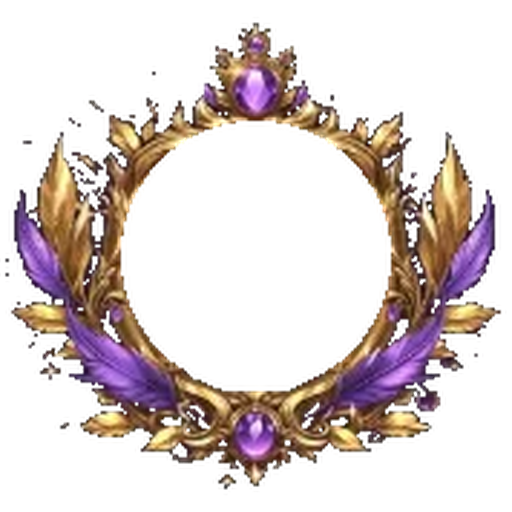
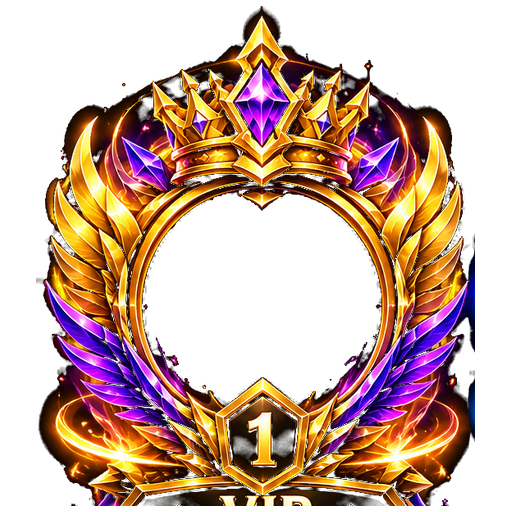
Add files via upload

diff --git a/FFX.html b/FFX.html
@@ -996,6 +996,7 @@ html,body,.pk,.po,.btn,.pay,.q,.card,.nav a,.pv-back{touch-action:manipulation}
     </div>
     <div id="arLeaderboard" class="ar-leader-list"><div class="ar-loading">Loading leaderboard...</div></div>
     <div class="ar-board-foot">LIVE DATA • UPDATES EVERY 15 SECONDS</div>
+    <div class="ar-board-animate" aria-label="Leaderboard highlights"><span class="ar-board-animate-star">✦</span><span class="ar-board-animate-track"><b>TOP PLAYERS</b><i>✦</i><b>CLIMB THE RANKS</b><i>✦</i><b>BE THE CHAMPION</b><i>✦</i></span><span class="ar-board-animate-star">✦</span></div>
   </section>
 
   <section class="ar-uid-mini" aria-label="UID Checker">
@@ -1145,6 +1146,70 @@ html,body,.pk,.po,.btn,.pay,.q,.card,.nav a,.pv-back{touch-action:manipulation}
     .ar-leader.podium.first .ar-leader-rank:after{content:"✦";position:absolute;top:-9px;right:-7px;color:#f3cf55;font-size:13px;text-shadow:0 1px 2px #8a5b10}
     .ar-leader.podium.second .ar-leader-rank:after{content:"✧";position:absolute;top:-8px;right:-6px;color:#91a8c7;font-size:13px}
     .ar-leader.podium.third .ar-leader-rank:after{content:"✧";position:absolute;top:-7px;right:-6px;color:#c58d67;font-size:12px}
+
+    /* Bright, polished leaderboard theme — scoped to the leaderboard only */
+    .ar-live-board .ar-board-head{
+      background:radial-gradient(ellipse at 92% 0%,rgba(89,151,255,.20),transparent 42%),linear-gradient(115deg,#f2f8ff 0%,#fff 48%,#edf5ff 100%);
+      border-top:1px solid #d9e8ff;border-bottom:1px solid #d6e6ff;
+    }
+    .ar-live-board .ar-board-head .ar-kicker{color:#2875e8;text-shadow:0 0 12px rgba(45,125,238,.18)}
+    .ar-live-board .ar-board-head h2{background:linear-gradient(90deg,#183c85 0%,#2679e8 48%,#7046cf 100%);-webkit-background-clip:text;background-clip:text;color:transparent}
+    .ar-live-board .ar-board-icon{color:#fff;border:1px solid rgba(255,255,255,.9);background:linear-gradient(145deg,#70b7ff,#2867d9 58%,#6047c9);box-shadow:0 7px 18px rgba(43,105,213,.24),inset 0 1px 0 rgba(255,255,255,.65);animation:arBoardIconGlow 3s ease-in-out infinite}
+    .ar-live-board .ar-leader-list{background:linear-gradient(180deg,#f5f9ff 0%,#fff 48%,#f7faff 100%)}
+    .ar-live-board .ar-leader.podium.first{background:radial-gradient(ellipse at 50% 0%,rgba(255,255,255,.96),transparent 55%),linear-gradient(145deg,#fff9d9 0%,#fff0a8 48%,#ffe6a0 100%);border-color:#e9bd32;box-shadow:0 12px 28px -15px rgba(190,139,14,.55),inset 0 1px 0 rgba(255,255,255,.95)}
+    .ar-live-board .ar-leader.podium.second{background:radial-gradient(ellipse at 50% 0%,rgba(255,255,255,.98),transparent 58%),linear-gradient(145deg,#f5fbff 0%,#dcecff 100%);border-color:#a9c9f5;box-shadow:0 9px 22px -15px rgba(49,111,191,.48),inset 0 1px 0 #fff}
+    .ar-live-board .ar-leader.podium.third{background:radial-gradient(ellipse at 50% 0%,rgba(255,255,255,.98),transparent 58%),linear-gradient(145deg,#fff8ef 0%,#ffe7cf 100%);border-color:#eac49e;box-shadow:0 8px 19px -15px rgba(171,111,62,.4),inset 0 1px 0 #fff}
+    .ar-live-board .ar-leader.normal{border-color:#dce8f8;background:linear-gradient(100deg,#fff 0%,#f8fbff 100%);box-shadow:0 3px 10px rgba(38,89,160,.045)}
+    .ar-live-board .ar-leader.normal .ar-points{border-color:#d5e5fb;background:linear-gradient(180deg,#fff,#f2f7ff);color:#2458a8}
+    .ar-live-board .ar-show-more{background:linear-gradient(100deg,#2877e8 0%,#4269df 48%,#7450cf 100%);box-shadow:0 8px 20px rgba(48,103,210,.25),inset 0 1px 0 rgba(255,255,255,.35);position:relative;overflow:hidden;transition:transform .2s ease,box-shadow .2s ease}
+    .ar-live-board .ar-show-more:before{content:"";position:absolute;top:-60%;left:-45%;width:35%;height:220%;transform:rotate(22deg);background:linear-gradient(90deg,transparent,rgba(255,255,255,.42),transparent);animation:arButtonShine 3.8s ease-in-out infinite}
+    .ar-live-board .ar-show-more:active{transform:scale(.97)}
+    .ar-live-board .ar-board-foot{padding:12px 12px 8px;color:#52709e;font-weight:800;letter-spacing:.7px}
+    .ar-board-animate{min-height:38px;margin:0 12px 14px;padding:0 12px;display:flex;align-items:center;justify-content:space-between;gap:9px;overflow:hidden;border:1px solid #cfe1ff;border-radius:12px;background:linear-gradient(100deg,#eaf4ff 0%,#f7f2ff 48%,#e8f5ff 100%);color:#245db5;box-shadow:inset 0 1px 0 rgba(255,255,255,.95),0 5px 14px rgba(45,102,190,.08)}
+    .ar-board-animate-star{flex:0 0 auto;color:#e0a91d;font-size:16px;text-shadow:0 0 9px rgba(244,190,52,.5);animation:arStarPop 1.8s ease-in-out infinite}
+    .ar-board-animate-track{display:flex;align-items:center;justify-content:space-around;gap:12px;min-width:0;flex:1;white-space:nowrap;animation:arBoardTicker 13s ease-in-out infinite}
+    .ar-board-animate-track b{font-size:9px;letter-spacing:1px;font-weight:950}.ar-board-animate-track i{font-style:normal;color:#8b67db;font-size:12px}
+    @keyframes arBoardIconGlow{0%,100%{box-shadow:0 7px 18px rgba(43,105,213,.2),0 0 0 0 rgba(71,139,242,0)}50%{box-shadow:0 8px 23px rgba(43,105,213,.3),0 0 0 5px rgba(71,139,242,.09)}}
+    @keyframes arButtonShine{0%,58%{left:-45%}82%,100%{left:125%}}
+    @keyframes arStarPop{0%,100%{transform:scale(.85) rotate(-8deg);opacity:.7}50%{transform:scale(1.18) rotate(8deg);opacity:1}}
+    @keyframes arBoardTicker{0%,100%{transform:translateX(5px)}50%{transform:translateX(-5px)}}
+    @media(prefers-reduced-motion:reduce){.ar-live-board .ar-board-icon,.ar-live-board .ar-show-more:before,.ar-board-animate-star,.ar-board-animate-track{animation:none!important}}
+
+    /* Exact Rank 1/2/3 ornamental profile frames based on the user's reference image */
+    .ar-leader.podium .ar-avatar.ar-frame-first,
+    .ar-leader.podium .ar-avatar.ar-frame-second,
+    .ar-leader.podium .ar-avatar.ar-frame-third{
+      position:relative;display:grid;place-items:center;overflow:visible;
+      flex:0 0 auto;border:0;outline:0;border-radius:0;background:transparent;
+      margin:2px auto 5px;isolation:isolate;
+    }
+    .ar-leader.podium .ar-avatar.ar-frame-first{width:120px;height:120px}
+    .ar-leader.podium .ar-avatar.ar-frame-second{width:106px;height:106px}
+    .ar-leader.podium .ar-avatar.ar-frame-third{width:96px;height:96px}
+    .ar-leader.podium .ar-avatar.ar-frame-first img,
+    .ar-leader.podium .ar-avatar.ar-frame-second img,
+    .ar-leader.podium .ar-avatar.ar-frame-third img{
+      position:absolute;left:50%;top:50%;transform:translate(-50%,-50%);
+      width:54%;height:54%;border-radius:50%;object-fit:cover;z-index:1;
+      border:2px solid rgba(255,255,255,.9);box-shadow:0 2px 9px rgba(18,35,70,.22);
+    }
+    .ar-leader.podium .ar-avatar.ar-frame-first:after,
+    .ar-leader.podium .ar-avatar.ar-frame-second:after,
+    .ar-leader.podium .ar-avatar.ar-frame-third:after{
+      content:"";position:absolute;inset:-3%;z-index:2;pointer-events:none;
+      background-position:center;background-repeat:no-repeat;background-size:contain;
+    }
+    .ar-leader.podium .ar-avatar.ar-frame-first:after{background-image:url("rank1-vip-frame.png")}
+    .ar-leader.podium .ar-avatar.ar-frame-second:after{background-image:url("rank2-premium-frame.png")}
+    .ar-leader.podium .ar-avatar.ar-frame-third:after{background-image:url("rank3-bronze-frame.png")}
+    .ar-leader.podium .ar-avatar.ar-frame-first:not(:has(img)),
+    .ar-leader.podium .ar-avatar.ar-frame-second:not(:has(img)),
+    .ar-leader.podium .ar-avatar.ar-frame-third:not(:has(img)){color:#172033;font-size:23px}
+    @media(max-width:380px){
+      .ar-leader.podium .ar-avatar.ar-frame-first{width:108px;height:108px}
+      .ar-leader.podium .ar-avatar.ar-frame-second{width:98px;height:98px}
+      .ar-leader.podium .ar-avatar.ar-frame-third{width:90px;height:90px}
+    }
   </style>
   <script>
   (function(){
@@ -1167,7 +1232,7 @@ html,body,.pk,.po,.btn,.pay,.q,.card,.nav a,.pv-back{touch-action:manipulation}
       if(!leaders.length){board.innerHTML='<div class="ar-empty">No leaderboard data available yet.</div>';return;}
       var podium=leaders.slice(0,3).map(function(u,i){
         var tier=i===0?'first':(i===1?'second':'third');
-        return '<div class="ar-leader podium '+tier+'"><span class="ar-leader-rank">'+(i+1)+'</span>'+avatar(u.name,u.avatar)+'<div class="ar-leader-name">'+esc(u.name||'Player')+'</div><div class="ar-points">'+Number(u.points||0).toLocaleString('en-US')+' POINTS</div></div>';
+        return '<div class="ar-leader podium '+tier+'"><span class="ar-leader-rank">'+(i+1)+'</span>'+avatar(u.name,u.avatar,'ar-frame-'+tier)+'<div class="ar-leader-name">'+esc(u.name||'Player')+'</div><div class="ar-points">'+Number(u.points||0).toLocaleString('en-US')+' POINTS</div></div>';
       }).join('');
       var rest=leaders.slice(3).map(function(u,i){
         var rank=i+4;
